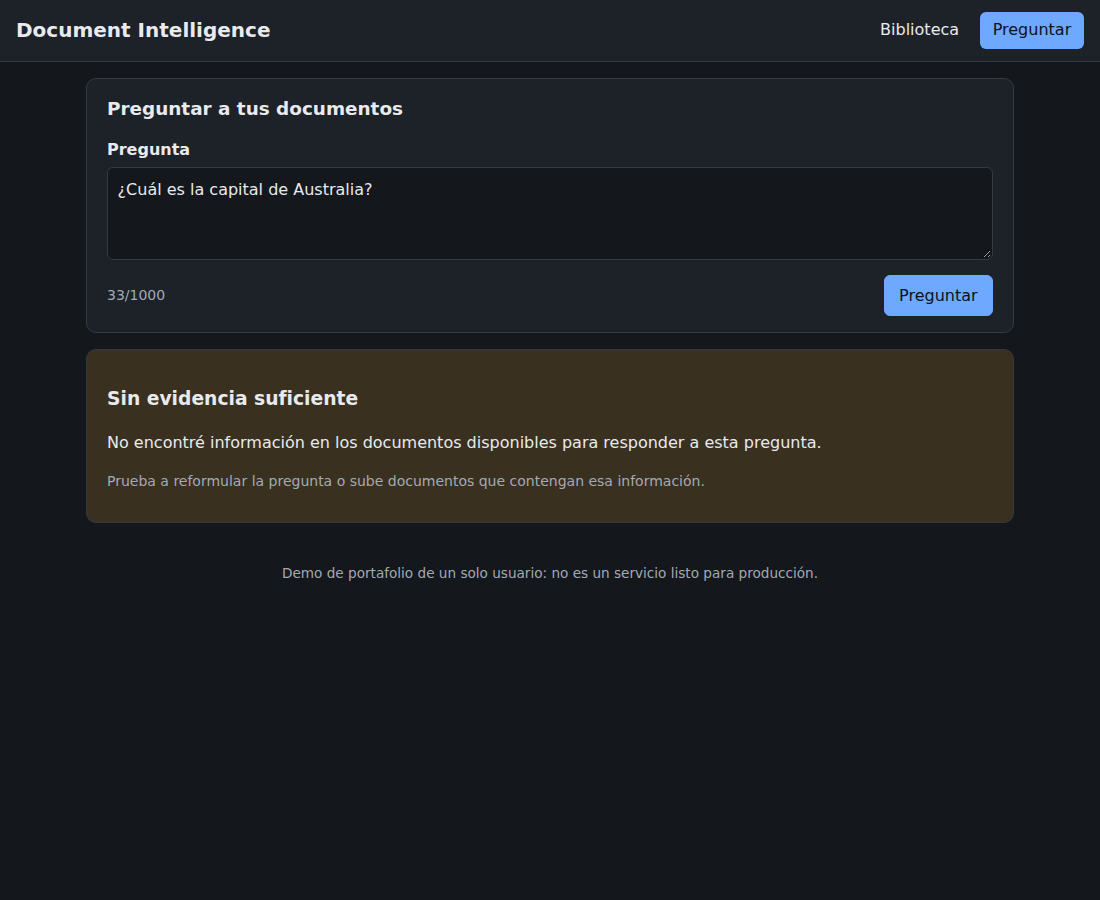
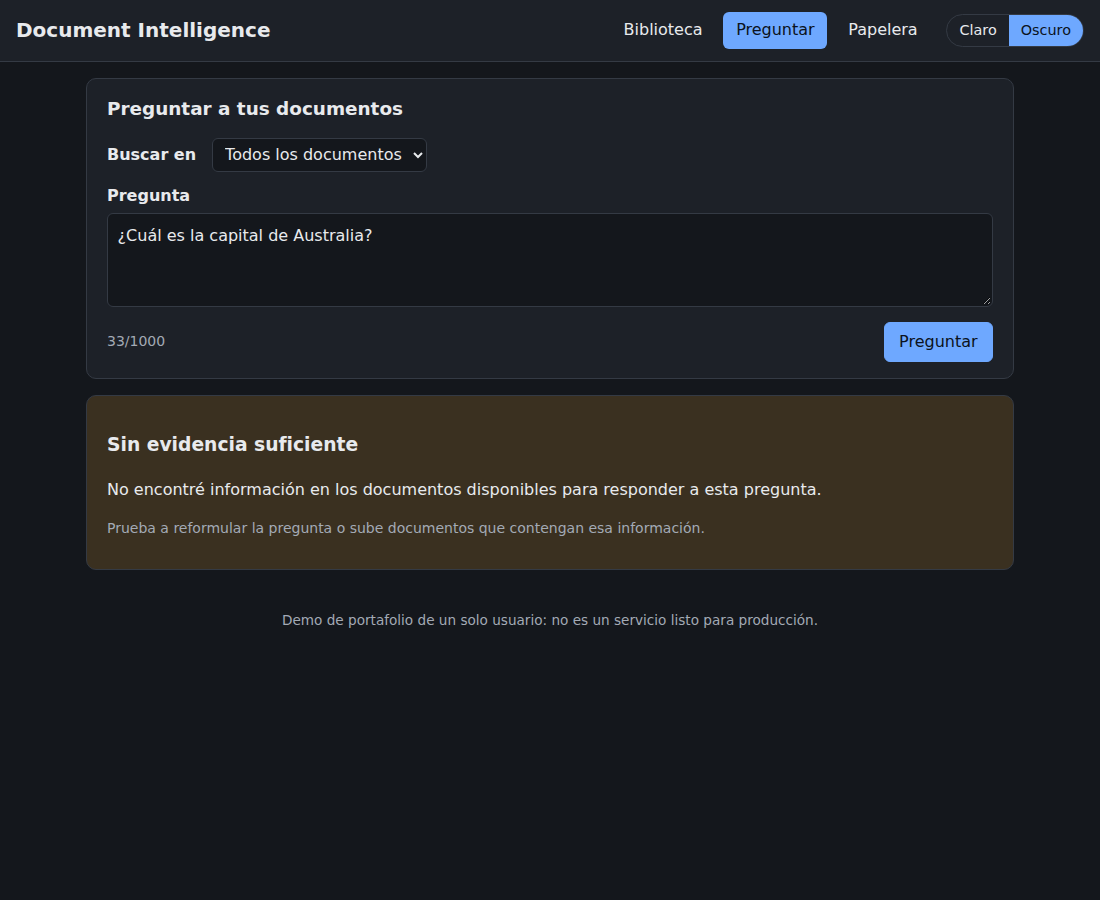
Selector de tema claro u oscuro (claro por defecto)
El tema ya no depende del sistema operativo: el usuario elige Claro u Oscuro en la cabecera
y se recuerda en el navegador (si localStorage no está disponible, dura hasta recargar).
Se aplica antes de pintar para evitar parpadeos.

diff --git a/frontend/src/index.css b/frontend/src/index.css
@@ -1,4 +1,5 @@
-/* Estilos mínimos. Colores con contraste AA en modo claro y oscuro. */
+/* Estilos mínimos. Tema claro por defecto y oscuro a elección del usuario (theme.ts);
+   colores con contraste AA en ambos. */
 :root {
   --bg: #f6f7f9;
   --surface: #ffffff;
@@ -11,27 +12,28 @@
   --success: #1a7f37;
   --warning-bg: #fff6e0;
   --focus: #1f5fbf;
-  color-scheme: light dark;
+  /* Controles nativos (selects, barras de desplazamiento) del mismo tema. */
+  color-scheme: light;
   font-family: system-ui, -apple-system, 'Segoe UI', Roboto, sans-serif;
   line-height: 1.5;
   color: var(--text);
   background: var(--bg);
 }
 
-@media (prefers-color-scheme: dark) {
-  :root {
-    --bg: #14171c;
-    --surface: #1d2128;
-    --text: #e8eaed;
-    --muted: #a3aab5;
-    --border: #343a44;
-    --accent: #6ea8ff;
-    --accent-text: #0b1220;
-    --danger: #ff8a80;
-    --success: #6fd38a;
-    --warning-bg: #3a3020;
-    --focus: #6ea8ff;
-  }
+/* Tema oscuro: solo si el usuario lo elige (no depende del sistema operativo). */
+:root[data-theme='dark'] {
+  --bg: #14171c;
+  --surface: #1d2128;
+  --text: #e8eaed;
+  --muted: #a3aab5;
+  --border: #343a44;
+  --accent: #6ea8ff;
+  --accent-text: #0b1220;
+  --danger: #ff8a80;
+  --success: #6fd38a;
+  --warning-bg: #3a3020;
+  --focus: #6ea8ff;
+  color-scheme: dark;
 }
 
 * { box-sizing: border-box; }
@@ -43,10 +45,13 @@ main { max-width: 960px; margin: 0 auto; padding: 1rem; display: grid; gap: 1rem
   gap: 1rem; padding: 0.75rem 1rem; background: var(--surface);
   border-bottom: 1px solid var(--border);
 }
-.app-header h1 { font-size: 1.25rem; margin: 0; }
+.app-header h1 { font-size: 1.25rem; margin: 0 auto 0 0; }
 .app-header nav { display: flex; gap: 0.5rem; }
 .app-header nav a { padding: 0.4rem 0.8rem; border-radius: 6px; text-decoration: none; color: var(--text); }
 .app-header nav a[aria-current='page'] { background: var(--accent); color: var(--accent-text); }
+.theme-toggle { display: flex; border: 1px solid var(--border); border-radius: 999px; overflow: hidden; }
+.theme-toggle button { background: transparent; border: none; border-radius: 0; padding: 0.3rem 0.75rem; font-size: 0.9rem; color: var(--text); }
+.theme-toggle button[aria-pressed='true'] { background: var(--accent); color: var(--accent-text); }
 .app-footer { text-align: center; color: var(--muted); font-size: 0.85rem; padding: 1.5rem 1rem; }
 
 .card { background: var(--surface); border: 1px solid var(--border); border-radius: 10px; padding: 1rem 1.25rem; }

diff --git a/frontend/src/theme.test.tsx b/frontend/src/theme.test.tsx
@@ -1,0 +1,42 @@
+import { render, screen } from '@testing-library/react'
+import userEvent from '@testing-library/user-event'
+import { afterEach, describe, expect, it, vi } from 'vitest'
+import { ThemeToggle } from './components/ThemeToggle'
+import { applyTheme, storedTheme } from './theme'
+
+describe('tema', () => {
+  afterEach(() => {
+    localStorage.clear()
+    delete document.documentElement.dataset.theme
+  })
+
+  it('es claro por defecto', () => {
+    expect(storedTheme()).toBe('light')
+  })
+
+  it('cambia a oscuro, lo aplica y lo recuerda', async () => {
+    applyTheme(storedTheme())
+    render(<ThemeToggle />)
+
+    await userEvent.click(screen.getByRole('button', { name: 'Tema oscuro' }))
+
+    expect(document.documentElement.dataset.theme).toBe('dark')
+    expect(localStorage.getItem('tema')).toBe('dark')
+    expect(screen.getByRole('button', { name: 'Tema oscuro' })).toHaveAttribute('aria-pressed', 'true')
+    expect(screen.getByRole('button', { name: 'Tema claro' })).toHaveAttribute('aria-pressed', 'false')
+  })
+
+  it('funciona aunque el navegador bloquee el almacenamiento', async () => {
+    vi.spyOn(Storage.prototype, 'getItem').mockImplementation(() => {
+      throw new Error('bloqueado')
+    })
+    vi.spyOn(Storage.prototype, 'setItem').mockImplementation(() => {
+      throw new Error('bloqueado')
+    })
+    render(<ThemeToggle />)
+
+    await userEvent.click(screen.getByRole('button', { name: 'Tema oscuro' }))
+
+    expect(document.documentElement.dataset.theme).toBe('dark')
+  })
+})

diff --git a/frontend/src/theme.ts b/frontend/src/theme.ts
@@ -1,0 +1,35 @@
+// Tema claro u oscuro elegido por el usuario. Claro por defecto; la elección se recuerda en
+// este navegador (localStorage puede no estar disponible: modo privado, cookies bloqueadas).
+
+import { useState } from 'react'
+
+export type Theme = 'light' | 'dark'
+
+const STORAGE_KEY = 'tema'
+
+export function storedTheme(): Theme {
+  try {
+    return localStorage.getItem(STORAGE_KEY) === 'dark' ? 'dark' : 'light'
+  } catch {
+    return 'light'
+  }
+}
+
+/** Aplica el tema al documento (los colores están en index.css bajo [data-theme]). */
+export function applyTheme(theme: Theme): void {
+  document.documentElement.dataset.theme = theme
+}
+
+export function useTheme(): [Theme, (theme: Theme) => void] {
+  const [theme, setThemeState] = useState<Theme>(storedTheme)
+  function setTheme(next: Theme) {
+    applyTheme(next)
+    setThemeState(next)
+    try {
+      localStorage.setItem(STORAGE_KEY, next)
+    } catch {
+      // Sin almacenamiento el tema dura hasta recargar la página.
+    }
+  }
+  return [theme, setTheme]
+}

diff --git a/frontend/src/components/ThemeToggle.tsx b/frontend/src/components/ThemeToggle.tsx
@@ -1,0 +1,29 @@
+import { useTheme, type Theme } from '../theme'
+
+// Texto en lugar de emojis: los emojis dependen de las fuentes del sistema y en algunos
+// equipos se ven como un cuadro vacío.
+const OPTIONS: Array<{ value: Theme; label: string; text: string }> = [
+  { value: 'light', label: 'Tema claro', text: 'Claro' },
+  { value: 'dark', label: 'Tema oscuro', text: 'Oscuro' },
+]
+
+/** Selector Claro / Oscuro (dos botones con aria-pressed). */
+export function ThemeToggle() {
+  const [theme, setTheme] = useTheme()
+  return (
+    <div className="theme-toggle" role="group" aria-label="Tema">
+      {OPTIONS.map((option) => (
+        <button
+          key={option.value}
+          type="button"
+          aria-label={option.label}
+          title={option.label}
+          aria-pressed={theme === option.value}
+          onClick={() => setTheme(option.value)}
+        >
+          {option.text}
+        </button>
+      ))}
+    </div>
+  )
+}

diff --git a/frontend/src/App.tsx b/frontend/src/App.tsx
@@ -1,3 +1,4 @@
+import { ThemeToggle } from './components/ThemeToggle'
 import { AskPage } from './pages/AskPage'
 import { DocumentPage } from './pages/DocumentPage'
 import { LibraryPage } from './pages/LibraryPage'
@@ -25,6 +26,7 @@ export default function App() {
             Papelera
           </a>
         </nav>
+        <ThemeToggle />
       </header>
       <main>
         {route.name === 'library' && (

diff --git a/frontend/src/main.tsx b/frontend/src/main.tsx
@@ -2,6 +2,10 @@ import { StrictMode } from 'react'
 import { createRoot } from 'react-dom/client'
 import App from './App'
 import './index.css'
+import { applyTheme, storedTheme } from './theme'
+
+// Antes de pintar: evita un parpadeo del tema claro si el usuario eligió el oscuro.
+applyTheme(storedTheme())
 
 createRoot(document.getElementById('root')!).render(
   <StrictMode>

diff --git a/README.md b/README.md
@@ -400,17 +400,21 @@ Metodología, resultados e interpretación en [`docs/rag-evaluation.md`](docs/ra
 
 ## Frontend
 
-- **Biblioteca:** subida por clic o arrastrando (con validación previa de tipo y tamaño), lista
-  con tamaño, fecha y estado, error de los documentos fallidos, reintentar y eliminar.
-- **Detalle de documento:** metadatos, estado y resumen generado (con botón para generarlo si
-  falta).
-- **Preguntar:** respuesta con fuentes (documento, página y extracto) enlazadas al detalle del
-  documento, y aviso explícito cuando no hay evidencia suficiente.
+- **Biblioteca:** carpetas (crear, renombrar, eliminar, filtrar, mover documentos), subida por
+  clic o arrastrando (con validación previa de tipo y tamaño), lista con tamaño, fecha y estado,
+  error de los documentos fallidos, reintentar y eliminar (a la papelera, con confirmación).
+- **Detalle de documento:** metadatos, estado, resumen generado (con botón para generarlo si
+  falta), enlace al PDF original y «Preguntar sobre este documento» (con página opcional).
+- **Preguntar:** a todos los documentos o a una carpeta; respuesta con fuentes (documento,
+  página y extracto; la página abre el PDF en ese punto) y aviso explícito cuando no hay
+  evidencia suficiente.
+- **Papelera:** restaurar, eliminar definitivamente y vaciar, con la fecha de borrado automático.
+- **Tema claro u oscuro** a elección (claro por defecto), recordado en el navegador.
 - **Estados** de carga, vacío, error y éxito en todas las pantallas; errores comprensibles, sin
   trazas ni detalles internos.
 - **Accesibilidad básica:** etiquetas en los controles, navegación por teclado, foco visible,
   anuncios `aria-live` de los cambios de estado, estado comunicado con texto (no solo color) y
-  contraste en modo claro y oscuro.
+  contraste en ambos temas.
 - **Seguridad:** la respuesta del LLM se muestra como texto plano. Nunca se usa
   `dangerouslySetInnerHTML` ni se interpreta Markdown, porque un documento malicioso podría
   inducir al LLM a devolver HTML o enlaces que ejecuten código o filtren datos.
